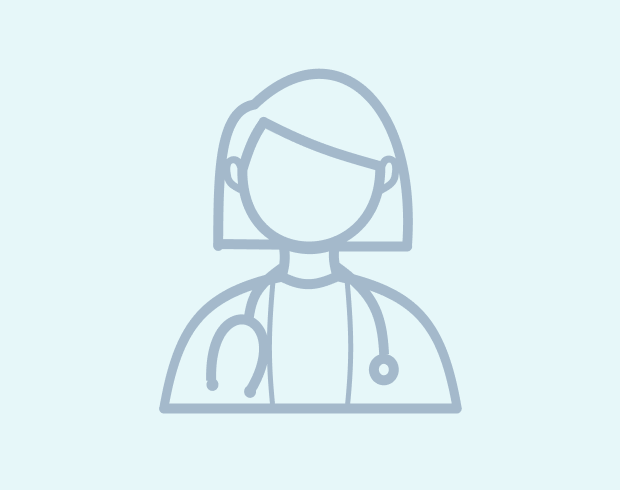
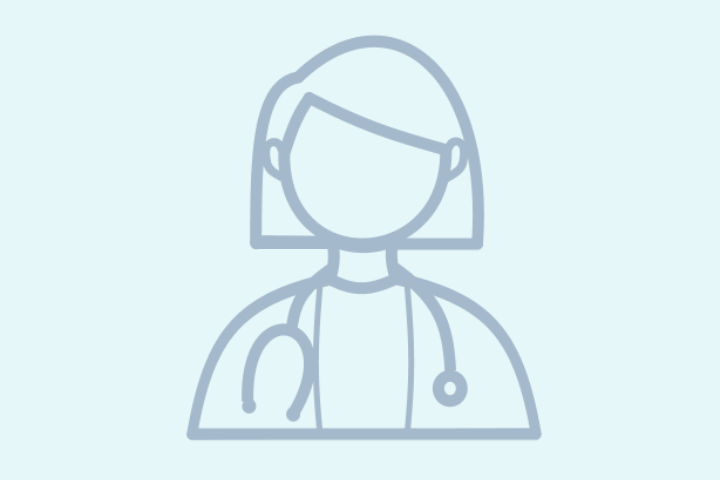
CE-49: Updated images

Changed region(s): [[0.2452, 0.0625, 0.7661, 0.9375]]

diff --git a/src/content/medicos/dr-ulises-flores.md b/src/content/medicos/dr-ulises-flores.md
@@ -1,11 +1,9 @@
 ---
 title: 'Dr. Ulises Flores'
 description: 'Nefrólogo Dr. Flores, cuidado especializado en enfermedades renales en nuestra clínica de corta estancia.'
-# seoImage: '/src/assets/images/ulises_flores.jpg'
-seoImage: '/src/assets/images/dricon.png'
+seoImage: '/src/assets/images/ulises_flores.png'
 info: 'El Dr. Ulises Flores es un nefrólogo joven y excepcional graduado con honores y ha demostrado un compromiso excepcional con la atención de los pacientes con enfermedades renales. Con una pasión por la medicina y un enfoque centrado en el paciente, el Dr. Flores se esfuerza por brindar la mejor atención posible a cada persona que trata. Su formación académica sólida y su dedicación para mantenerse actualizado con los últimos avances en nefrología lo convierten en un médico altamente capacitado y confiable. El Dr. Flores trabaja diligentemente para desarrollar planes de tratamiento personalizados que aborden las necesidades individuales de cada paciente, asegurando que reciban la atención integral y compasiva que merecen.'
-# photo: '/src/assets/images/ulises_flores.jpg'
-photo: '/src/assets/images/dricon.png'
+photo: '/src/assets/images/ulises_flores.png'
 especialidad: 'Nefrología'
 tags: ['Nefrología']
 ---

diff --git a/src/content/medicos/dr-dario-martinez.md b/src/content/medicos/dr-dario-martinez.md
@@ -1,9 +1,9 @@
 ---
 title: 'Dr. Darío Martínez'
 description: 'Cirujano general Dr. Martínez, experiencia en procedimientos quirúrgicos en nuestra clínica de intervencionismo y corta estancia.'
-seoImage: '/src/assets/images/dario_martinez.jpg'
+seoImage: '/src/assets/images/dario_martinez.png'
 info: 'El Dr. Martínez es un cirujano general reconocido por su habilidad excepcional en procedimientos quirúrgicos y su enfoque compasivo hacia el cuidado de sus pacientes. Con una carrera destacada en la cirugía, el Dr. Martínez se ha ganado una reputación por su destreza quirúrgica y su compromiso con la excelencia médica. Su habilidad para abordar una amplia gama de procedimientos quirúrgicos con precisión y cuidado lo convierte en un recurso invaluable para nuestra clínica y una fuente confiable de atención para aquellos que buscan tratamiento. El Dr. Martínez se esfuerza por proporcionar a cada paciente una experiencia médica positiva y segura, asegurando que sus necesidades individuales sean atendidas con el máximo cuidado y atención.'
-photo: '/src/assets/images/dario_martinez.jpg'
+photo: '/src/assets/images/dario_martinez.png'
 especialidad: 'Cirugía General'
 tags: ['Cirugía General']
 ---

diff --git a/src/content/medicos/dr-fernando-ramirez.md b/src/content/medicos/dr-fernando-ramirez.md
@@ -1,9 +1,9 @@
 ---
 title: 'Dr. Fernando Ramírez'
 description: 'Radiólogo intervencionista Dr. Ramírez, diagnósticos precisos y tratamientos mínimamente invasivos en clínica de corta estancia'
-seoImage: '/src/assets/images/fernando_ramirez.jpg'
+seoImage: '/src/assets/images/fernando_ramirez.png'
 info: 'El Dr. Fernando Ramírez es un radiólogo intervencionista oncológico entusiasta que aporta un enfoque innovador y dedicado a su práctica médica. El Dr. Ramírez se destaca por su habilidad para realizar procedimientos mínimamente invasivos con precisión y cuidado a sus pacientes. Su pasión por la tecnología médica y su compromiso con la mejora continua lo convierten en un profesional en constante evolución, siempre buscando proporcionar el mejor tratamiento posible para cada paciente. Con un enfoque centrado en el paciente y una actitud compasiva, el Dr. Ramírez se ha ganado la confianza y el respeto de sus colegas y pacientes por igual.'
-photo: '/src/assets/images/fernando_ramirez.jpg'
+photo: '/src/assets/images/fernando_ramirez.png'
 especialidad: 'Radiología Intervencionista'
 tags: ['Radiología']
 ---

diff --git a/src/content/medicos/dr-santiago-osorio.md b/src/content/medicos/dr-santiago-osorio.md
@@ -1,9 +1,9 @@
 ---
 title: 'Dr. Santiago Osorio'
 description: 'Radiólogo Dr. Osorio, experto en diagnósticos por imagen con tecnología avanzada en clínica de corta estancia.'
-seoImage: '/src/assets/images/santiago_osorio.jpg'
+seoImage: '/src/assets/images/santiago_osorio.png'
 info: 'El Dr. Santiago Osorio es un radiólogo altamente capacitado con una sólida formación académica y una amplia experiencia en el campo de la radiología. Su dedicación a la excelencia en la interpretación de imágenes médicas y su habilidad para realizar diagnósticos precisos lo convierten en un profesional altamente respetado en su campo. Con un enfoque centrado en el paciente y una actitud compasiva, el Dr. Osorio trabaja para garantizar que cada paciente reciba la mejor atención posible y se sienta cómodo y seguro durante el proceso de diagnóstico. Su compromiso con la mejora continua y su pasión por la radiología hacen de él un activo invaluable para nuestro equipo médico.'
-photo: '/src/assets/images/santiago_osorio.jpg'
+photo: '/src/assets/images/santiago_osorio.png'
 especialidad: 'Radiología'
 tags: ['Radiología']
 ---

diff --git a/src/content/medicos/dr-alberto-varela.md b/src/content/medicos/dr-alberto-varela.md
@@ -1,9 +1,9 @@
 ---
 title: 'Dr. Alberto Varela'
 description: 'Cardiólogo Dr. Varela, diagnóstico y tratamiento avanzado de enfermedades cardíacas en clínica de corta estancia.'
-seoImage: '/src/assets/images/alberto_varela.jpg'
+seoImage: '/src/assets/images/alberto_varela.png'
 info: 'El Dr. Varela es un cardiólogo con una extensa trayectoria y experiencia en el campo de la cardiología. Con más de 30 años de práctica médica, el Dr. Varela se ha destacado por su dedicación a la excelencia en el cuidado cardíaco y su compromiso con la salud de sus pacientes. Su vasto conocimiento y experiencia lo han convertido en un líder respetado en el tratamiento de enfermedades cardiovasculares, y su enfoque centrado en el paciente se refleja en cada aspecto de su práctica médica. Su pasión por la medicina y su compromiso con la salud cardiovascular lo convierten en un recurso invaluable para aquellos que buscan tratamiento cardíaco de alta calidad.'
-photo: '/src/assets/images/alberto_varela.jpg'
+photo: '/src/assets/images/alberto_varela.png'
 especialidad: 'Cardiología'
 tags: ['Cardiología']
 ---

diff --git a/src/content/medicos/dr-juan-carlos-sanchez.md b/src/content/medicos/dr-juan-carlos-sanchez.md
@@ -1,9 +1,9 @@
 ---
 title: 'Dr. Juan Carlos Sánchez'
 description: 'Algólogo intervencionista Dr. Sánchez, manejo del dolor crónico con técnicas avanzadas en clínica de corta estancia.'
-seoImage: '/src/assets/images/juancarlos_schz.jpg'
+seoImage: '/src/assets/images/juancarlos_schz.png'
 info: 'El Dr. Sánchez Castellanos es un algólogo intervencionista y anestesiólogo altamente especializado en el manejo del dolor. Cuenta con una formación académica sólida y una amplia experiencia en el tratamiento de condiciones dolorosas. Su enfoque integral y multidisciplinario le permite desarrollar planes de tratamiento personalizados que aborden las necesidades individuales de cada paciente. Con un compromiso inquebrantable con la excelencia en el cuidado del dolor, el Dr. Sánchez Castellanos utiliza las últimas técnicas y tecnologías para proporcionar alivio y mejorar la calidad de vida de sus pacientes.'
-photo: '/src/assets/images/juancarlos_schz.jpg'
+photo: '/src/assets/images/juancarlos_schz.png'
 especialidad: 'Algología Intervencionista'
 tags: ['Algología Intervencionista']
 ---

diff --git a/src/content/medicos/dr-german-tovar.md b/src/content/medicos/dr-german-tovar.md
@@ -1,9 +1,9 @@
 ---
 title: 'Dr. German Tovar Fuentes'
 description: 'Cirujano general Dr. Tovar, experiencia en procedimientos quirúrgicos en nuestra clínica de intervencionismo y corta estancia.'
-seoImage: '/src/assets/images/german_tovar.jpg'
-info: 'Falta'
-photo: '/src/assets/images/german_tovar.jpg'
+seoImage: '/src/assets/images/german_tovar.png'
+info: 'El cuidado del paciente es la principal prioridad del Dr. Germán Tovar, un cirujano general altamente experimentado y dedicado. Con más de 20 años de práctica, se destaca por su habilidad quirúrgica excepcional y su compromiso con la excelencia en el cuidado del paciente. Su enfoque personalizado y su meticulosa atención a los detalles lo han convertido en un líder respetado en su campo. Se especializa en una variedad de procedimientos quirúrgicos, desde cirugías menores hasta intervenciones más complejas, y su dedicación a mejorar la vida de sus pacientes es evidente en cada aspecto de su práctica médica.'
+photo: '/src/assets/images/german_tovar.png'
 especialidad: 'Cirugía General'
 tags: ['Cirugía General']
 ---

diff --git a/src/content/medicos/dr-ivan-salinas.md b/src/content/medicos/dr-ivan-salinas.md
@@ -1,9 +1,9 @@
 ---
 title: 'Dr. Iván Salinas'
 description: 'Cardiólogo Dr. Salinas, experto en salud del corazón y tratamiento cardiovascular en nuestra clínica de corta estancia.'
-seoImage: '/src/assets/images/ivan_salinas.jpg'
+seoImage: '/src/assets/images/ivan_salinas.png'
 info: 'El Dr. Iván Salinas es un cardiólogo dedicado que se destaca por su pasión por la medicina cardiovascular y su compromiso con la salud de sus pacientes. Con una formación académica sólida y una experiencia clínica diversa, el Dr. Salinas ofrece un enfoque integral y personalizado para el tratamiento de enfermedades del corazón. Su habilidad para comunicarse de manera efectiva con sus pacientes y su capacidad para explicar conceptos médicos complejos de manera clara y comprensible lo convierten en un médico altamente valorado por aquellos que buscan atención cardiológica.'
-photo: '/src/assets/images/ivan_salinas.jpg'
+photo: '/src/assets/images/ivan_salinas.png'
 especialidad: 'Cardiología'
 tags: ['Cardiología']
 ---
